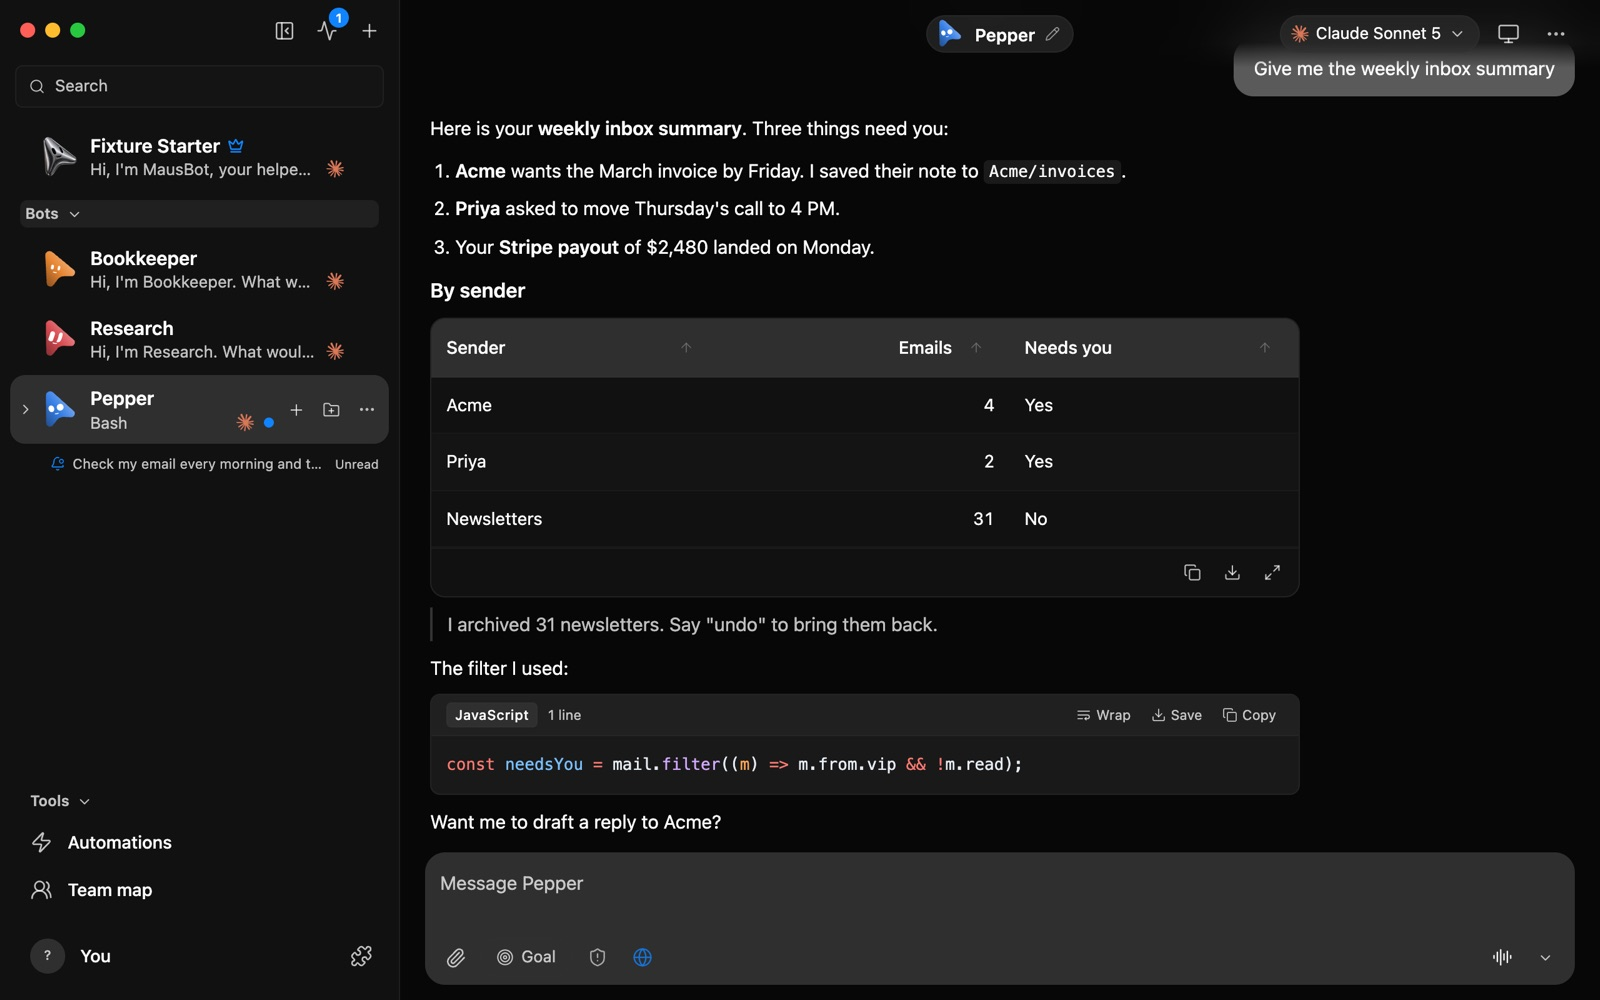
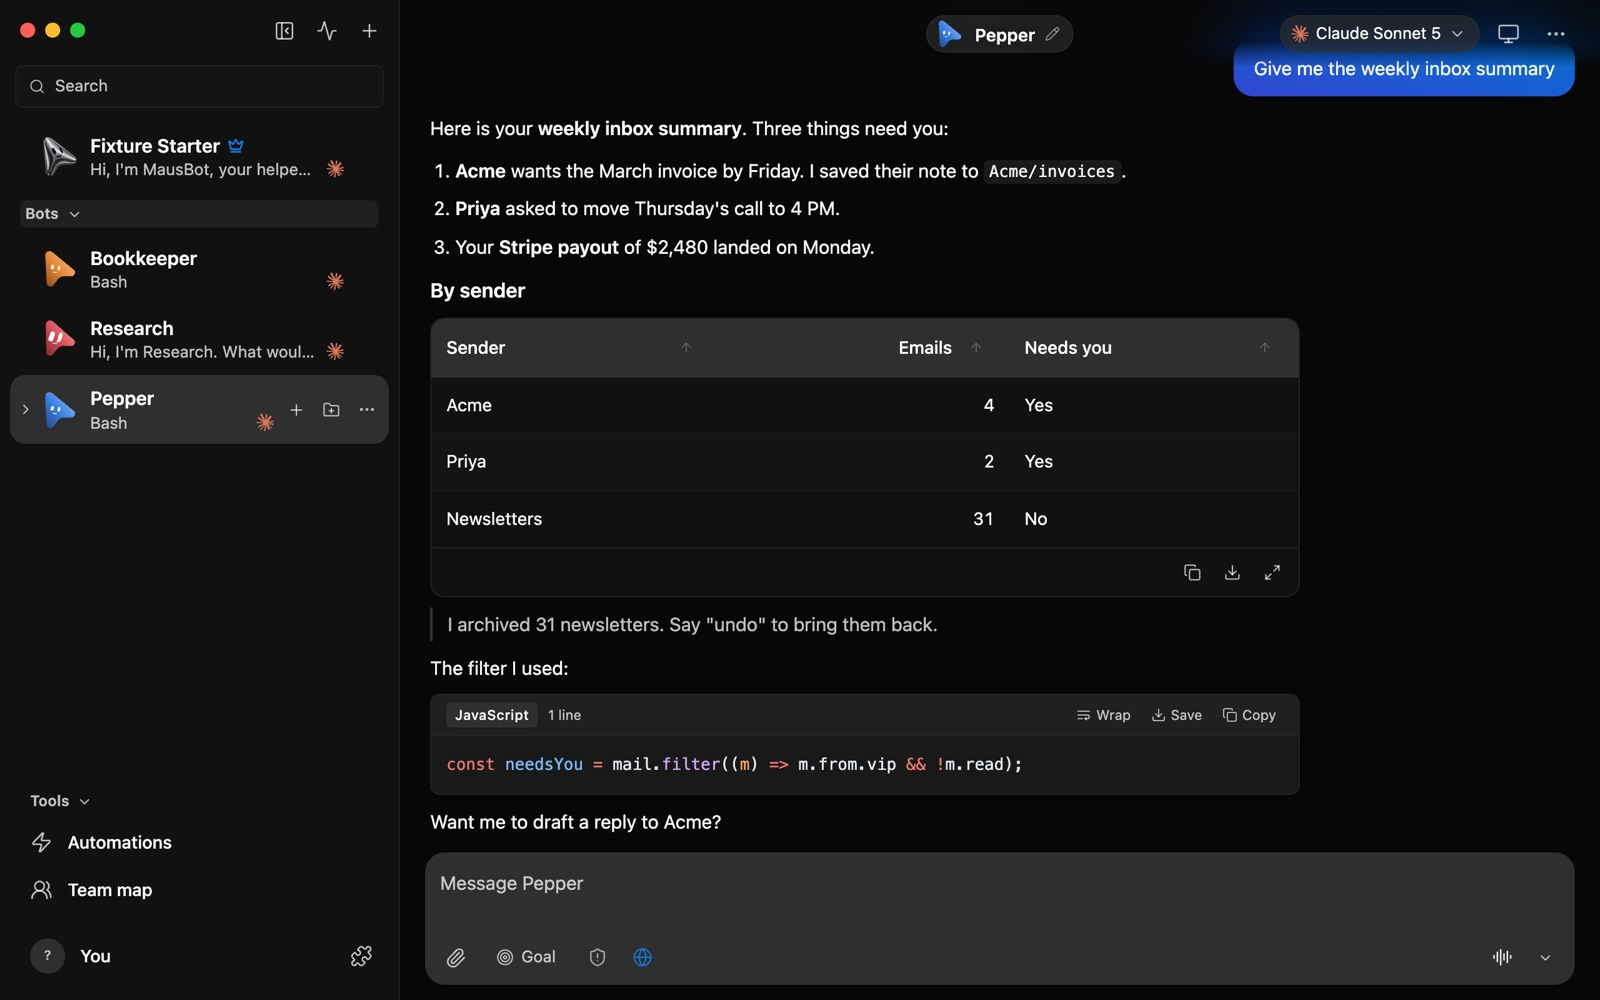
fix(ui): keep bot-coloured bubbles on by default
"Color my messages" keeps its default; only Meadow's uncoloured bubble
changes. Screenshots retaken with coloured bubbles.

diff --git a/src/lib/user-bubble-preference.test.ts b/src/lib/user-bubble-preference.test.ts
@@ -33,20 +33,20 @@ afterEach(() => {
 });
 
 describe("color my messages", () => {
-  it("is off until the person turns it on", async () => {
+  it("is on until the person turns it off", async () => {
     const preference = await import("./user-bubble-preference");
-    expect(preference.readColorUserBubbles()).toBe(false);
-    expect(preference.useColorUserBubbles()).toBe(false);
-    local.setItem(preference.USER_BUBBLE_COLOR_KEY, "1");
     expect(preference.readColorUserBubbles()).toBe(true);
+    expect(preference.useColorUserBubbles()).toBe(true);
     local.setItem(preference.USER_BUBBLE_COLOR_KEY, "0");
     expect(preference.readColorUserBubbles()).toBe(false);
+    local.setItem(preference.USER_BUBBLE_COLOR_KEY, "1");
+    expect(preference.readColorUserBubbles()).toBe(true);
   });
 
-  it("stays off when this device's storage cannot be read", async () => {
+  it("stays on when this device's storage cannot be read", async () => {
     vi.stubGlobal("localStorage", { getItem: () => { throw new Error("blocked"); }, setItem: () => {} });
     const preference = await import("./user-bubble-preference");
-    expect(preference.readColorUserBubbles()).toBe(false);
+    expect(preference.readColorUserBubbles()).toBe(true);
   });
 
   it("remembers the choice on this device", async () => {

diff --git a/src/lib/user-bubble-preference.ts b/src/lib/user-bubble-preference.ts
@@ -16,9 +16,9 @@ function storage(): Storage | undefined {
 export function readColorUserBubbles(): boolean {
   if (sessionChoice !== undefined) return sessionChoice;
   try {
-    return storage()?.getItem(USER_BUBBLE_COLOR_KEY) === "1";
+    return storage()?.getItem(USER_BUBBLE_COLOR_KEY) !== "0";
   } catch {
-    return false;
+    return true;
   }
 }
 
